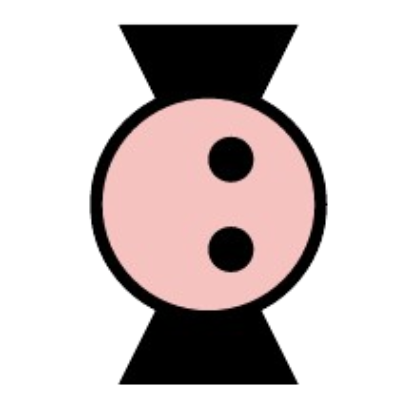
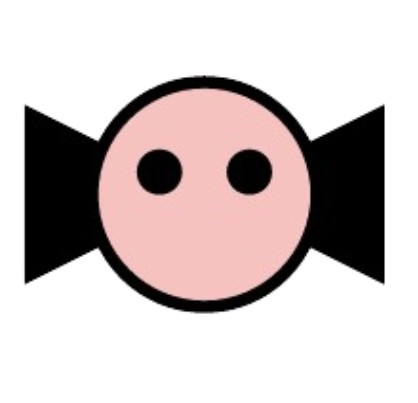
Implementing player rotation

diff --git a/src/game/entity/Player.java b/src/game/entity/Player.java
@@ -19,15 +19,15 @@ import javafx.scene.image.ImageView;
  */
 public class Player extends Entity {
 
+    private static final String PLAYER_PNG = "/game/resources/player.png";
+    private static final int SPRITE_SIZE = 35;
+
     private int highscore;
     private GameController controller;
     private Level level;
 
     private final ImageView sprite = new ImageView(
             new Image(Player.class.getResource("/game/resources/player.png").toExternalForm()));
-
-    private static final String PLAYER_PNG = "/game/resources/player.png";
-    private static final int SPRITE_SIZE = 35;
 
     /**
      * Constructs a new Player entity.
@@ -60,19 +60,19 @@ public class Player extends Entity {
         System.out.println("Player before move: (" + getX() + ", " + getY() + ")");
         Direction moveDirection = getDirection();
 
+        // Locating current and target tiles
         Tile currentTile = level.getTile(getY(), getX());
         Tile targetTile = level.findNextValidTile(currentTile, moveDirection);
 
+        // Different situations depending on what the target tile is
         if (targetTile == null) {
             return;
         } else {
             System.out.println("Target tile: (" + targetTile.getX() + ", " + targetTile.getY() + ")");
         }
-
         if (targetTile.hasGate()) {
             return;
         }
-
         if (targetTile.containsFlyingAssassin()) {
             game.GameController.gameOver();
             return;
@@ -89,9 +89,9 @@ public class Player extends Entity {
                 neighbour.getBomb().trigger();
             }
         }
-        //Handles exit logic
+        // Handles exit logic
         if (targetTile.isExit() && level.allLootAndLeversCollected()) {
-                controller.finishLevel();
+            controller.finishLevel();
         }
         System.out.println("Player after move: (" + getX() + ", " + getY() + ")");
     }
@@ -124,14 +124,38 @@ public class Player extends Entity {
 
     /**
      * Method to return the player image.
+     * Rotation is based on the direction they are facing.
+     *
      * @return image of the player png
      */
     public ImageView getSprite() {
+
+        // Get direction that player sprite is facing
+        Direction facingDirection = getDirection();
+
+        // Reset imageview orientation
+        sprite.setRotate(0);
+
+        // Rotate based on new direction
+        switch (facingDirection) {
+            case EAST:
+                sprite.rotateProperty().set(90);
+                break;
+            case SOUTH:
+                sprite.rotateProperty().set(180);
+                break;
+            case WEST:
+                sprite.rotateProperty().set(270);
+                break;
+            default:
+                break;
+        }
         return sprite;
     }
 
     /**
      * Adds value to Highscore
+     *
      * @param value value to be added to Highscore
      */
     @Override
